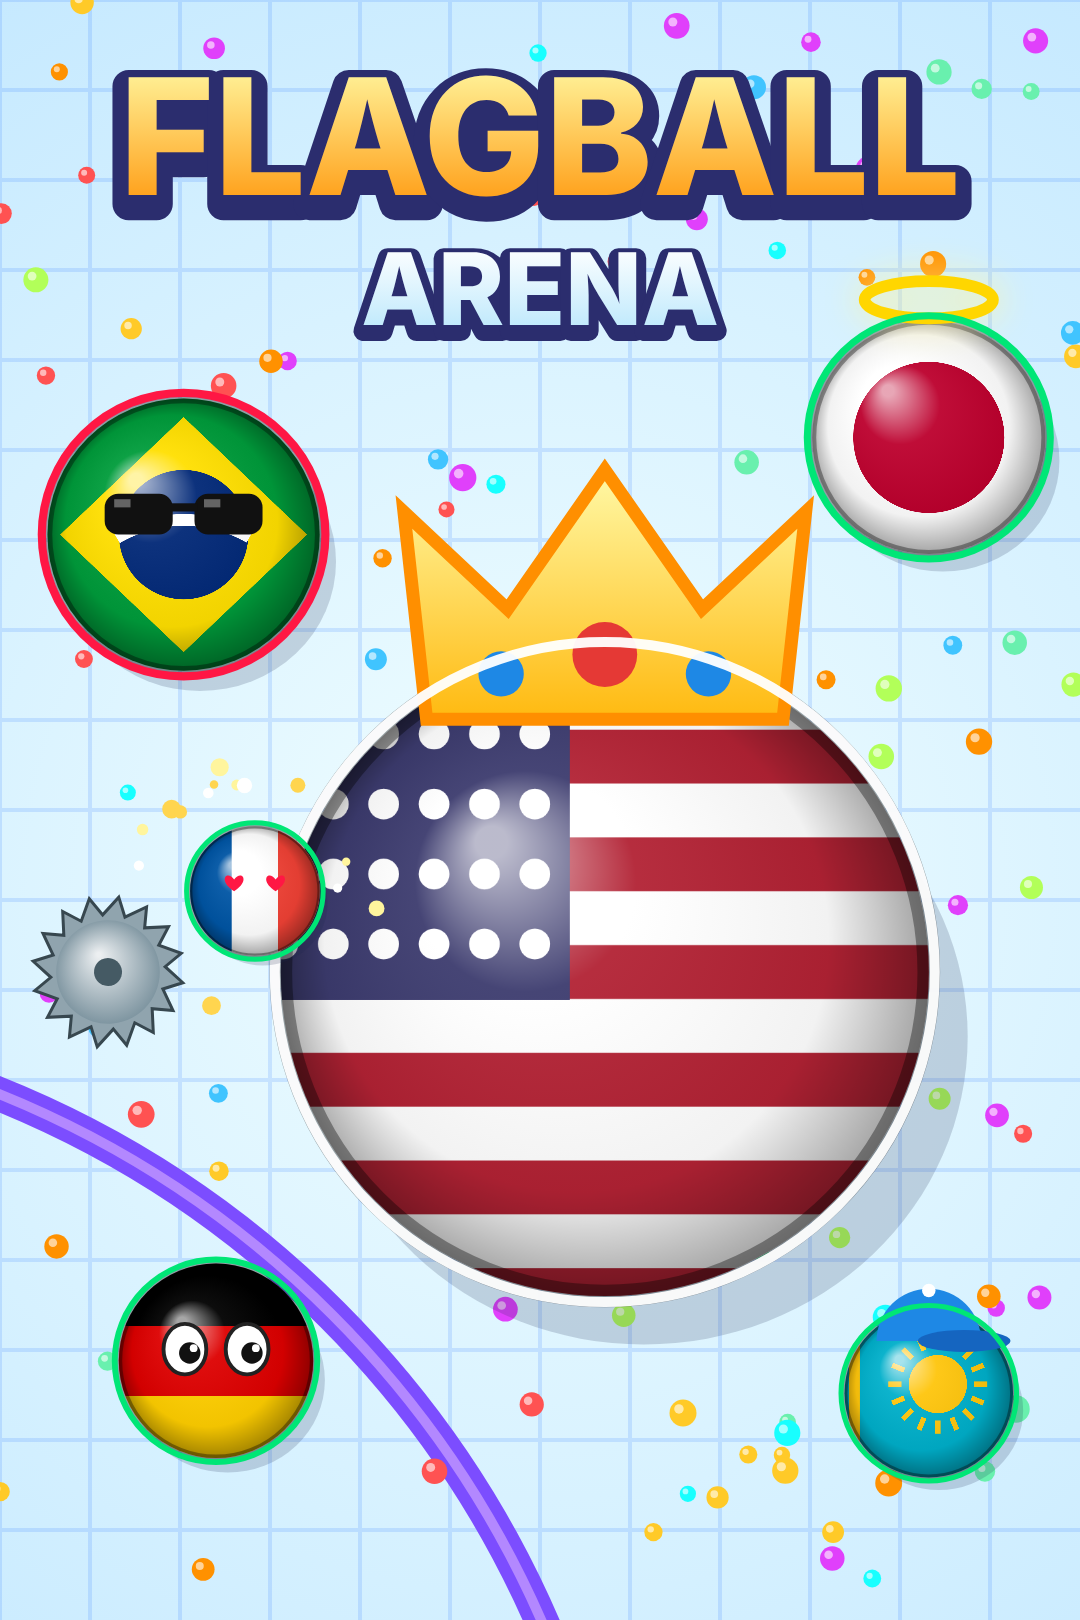
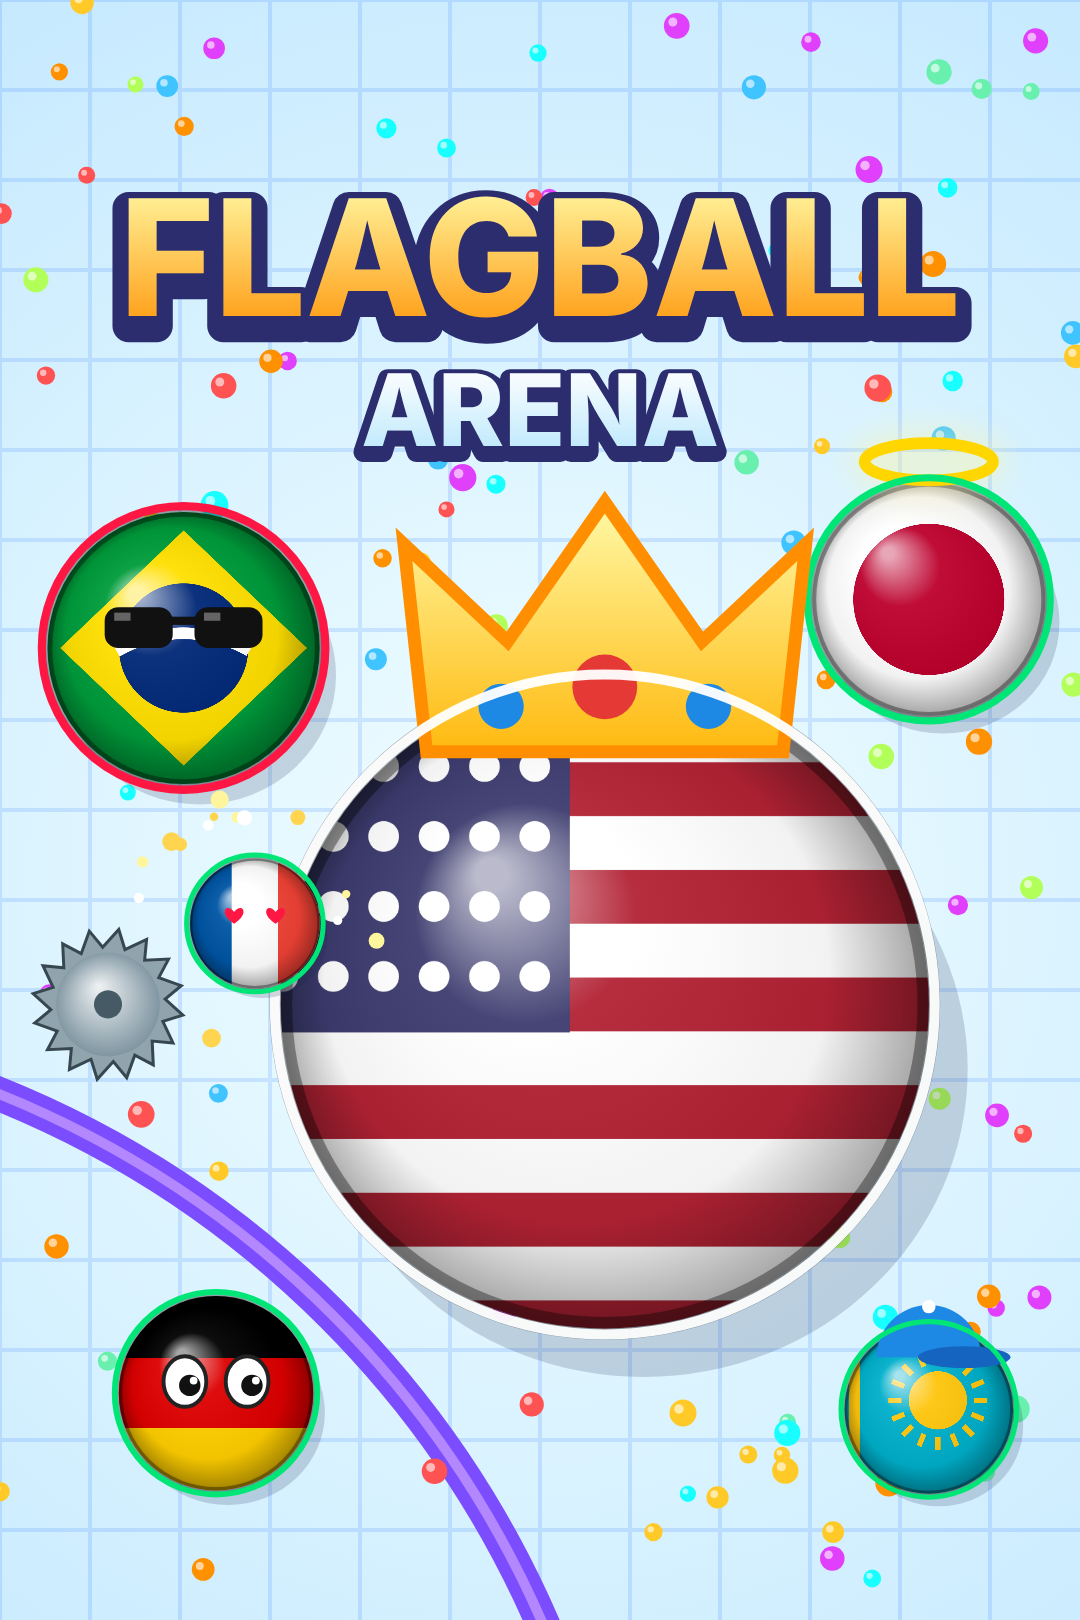
Обложки: надпись и шарики вне зоны ярлыка CrazyGames
Claude-Session: https://claude.ai/code/session_01WYD119ARkeVwakcTDPC31F

diff --git a/art/cover.html b/art/cover.html
@@ -29,24 +29,36 @@
     C.drawBall(x, y, r, flag, 0, ctx, null); A.drawAcc(ctx, acc, x, y, r);
     if (ring) { ctx.strokeStyle = ring; ctx.lineWidth = Math.max(5, r * 0.06); ctx.beginPath(); ctx.arc(x, y, r + ctx.lineWidth * 0.7, 0, 7); ctx.stroke(); }
   }
-  // композиция в долях кадра (подстраивается под 16:9, 2:3, 1:1)
-  const land = W / H > 1.2, port = W / H < 0.9;
-  const big = land ? 0.3 * H : port ? 0.3 * W : 0.235 * W;
-  const bx = land ? W * 0.62 : W * 0.56, by = land ? H * 0.6 : port ? H * 0.6 : H * 0.67;
-  saw(land ? W * 0.08 : W * 0.1, land ? H * 0.86 : H * 0.6, 70 * S);
-  ball(land ? W * 0.18 : W * 0.17, land ? H * 0.5 : port ? H * 0.33 : H * 0.36, big * 0.42, 'BR', 5, '#ff1744');
-  ball(land ? W * 0.9 : W * 0.86, land ? H * 0.28 : port ? H * 0.27 : H * 0.29, big * 0.36, 'JP', 8, '#00e676');
-  ball(land ? W * 0.36 : W * 0.2, land ? H * 0.8 : port ? H * 0.84 : H * 0.85, big * 0.3, 'DE', 1, '#00e676');
-  ball(land ? W * 0.88 : W * 0.86, land ? H * 0.82 : port ? H * 0.86 : H * 0.88, big * 0.26, 'KZ', 3, '#00e676');
+  // композиция в долях кадра (16:9, 2:3, 1:1). Верхний левый угол — «зона ярлыка» CrazyGames
+  // (16:9 — 40%×20%, 2:3 — 40%×10%, 1:1 — 35%×30%): там только фон, ни надписи, ни шариков.
+  const land = W / H > 1.2, port = W / H < 0.9, sq = !land && !port;
+  const P = land ? {
+    big: 0.3 * H, bx: 0.67 * W, by: 0.6 * H,
+    saw: [0.4, 0.88], BR: [0.49, 0.16, 0.42], JP: [0.91, 0.24, 0.36], DE: [0.12, 0.8, 0.3], KZ: [0.9, 0.85, 0.26],
+    title: [0.26, 0.42], fs: 0.09 * W
+  } : port ? {
+    big: 0.3 * W, bx: 0.56 * W, by: 0.62 * H,
+    saw: [0.1, 0.62], BR: [0.17, 0.4, 0.42], JP: [0.86, 0.37, 0.36], DE: [0.2, 0.86, 0.3], KZ: [0.86, 0.87, 0.26],
+    title: [0.5, 0.165], fs: 0.15 * W
+  } : {
+    big: 0.22 * W, bx: 0.56 * W, by: 0.42 * H,
+    saw: [0.9, 0.47], BR: [0.15, 0.5, 0.42], JP: [0.86, 0.17, 0.36], DE: [0.11, 0.9, 0.3], KZ: [0.9, 0.9, 0.26],
+    title: [0.5, 0.75], fs: 0.15 * W
+  };
+  const big = P.big, bx = P.bx, by = P.by;
+  saw(W * P.saw[0], H * P.saw[1], 70 * S);
+  ball(W * P.BR[0], H * P.BR[1], big * P.BR[2], 'BR', 5, '#ff1744');
+  ball(W * P.JP[0], H * P.JP[1], big * P.JP[2], 'JP', 8, '#00e676');
+  ball(W * P.DE[0], H * P.DE[1], big * P.DE[2], 'DE', 1, '#00e676');
+  ball(W * P.KZ[0], H * P.KZ[1], big * P.KZ[2], 'KZ', 3, '#00e676');
   // большой шарик-герой с короной, съедает маленький
   ball(bx, by, big, 'US', 11, null);
   ctx.strokeStyle = 'rgba(255,255,255,0.95)'; ctx.lineWidth = 10 * S; ctx.beginPath(); ctx.arc(bx, by, big + 6 * S, 0, 7); ctx.stroke();
-  const sx = bx - big * 1.08, sy = by - big * 0.25; ball(sx, sy, big * 0.2, 'FR', 7, '#00e676');
+  const sx = bx - big * 1.08, sy = by - big * (land ? 0.02 : 0.25); ball(sx, sy, big * 0.2, 'FR', 7, '#00e676');
   // искры
   for (let i = 0; i < 14; i++) { const a = rnd() * 6.28, d = big * 0.25 + rnd() * big * 0.15; ctx.fillStyle = ['#ffd54f', '#fff59d', '#ffffff'][i % 3]; ctx.beginPath(); ctx.arc(sx + Math.cos(a) * d, sy + Math.sin(a) * d, (4 + rnd() * 6) * S, 0, 7); ctx.fill(); }
   if (withTitle) {
-    const fs = land ? 180 * S : W * 0.15;
-    const tx = land ? W * 0.3 : W * 0.5, ty = land ? H * 0.17 : port ? H * 0.09 : H * 0.1;
+    const fs = P.fs, tx = W * P.title[0], ty = H * P.title[1];
     const word = (txt, x, y, f, g0, g1) => {
       ctx.font = C.font(f); ctx.textAlign = 'center'; ctx.textBaseline = 'middle'; ctx.lineJoin = 'round';
       ctx.lineWidth = f * 0.2; ctx.strokeStyle = '#2b2d6e'; ctx.strokeText(txt, x, y + f * 0.06);
@@ -58,6 +70,7 @@
     word('ARENA', tx, ty + fs * 0.92, fs * 0.62, '#ffffff', '#b3e5fc');
     ctx.restore();
   }
+  if (q.get('lz') === '1') { const z = land ? [0.4, 0.2] : port ? [0.4, 0.1] : [0.35, 0.3]; ctx.fillStyle = 'rgba(104,66,255,0.5)'; ctx.fillRect(0, 0, W * z[0], H * z[1]); }
   window.__done = true;
 })();
 </script>

diff --git a/tests/cover.render.js b/tests/cover.render.js
@@ -1,0 +1,22 @@
+// Обложки: скопировать art/cover.html, core.js и game.js из dist/flagball в COVR_DIR (по умолчанию /tmp/covr),
+// затем: node tests/cover.render.js <папка-вывода> [lz] (lz — показать зону ярлыка CrazyGames)
+const { chromium } = require('/opt/npm-tools/node_modules/playwright');
+const fs = require('fs');
+const OUT = process.argv[2] || '/tmp/covr/out/';
+const LZ = process.argv[3] === 'lz';
+fs.mkdirSync(OUT, { recursive: true });
+(async () => {
+  const b = await chromium.launch({ args: ['--allow-file-access-from-files'] });
+  for (const [w, h, name] of [[1920, 1080, 'cover_1920x1080.png'], [800, 1200, 'cover_800x1200.png'], [800, 800, 'cover_800x800.png'], [1080, 1620, 'cover_v_1080x1620.png']]) {
+    const p = await b.newPage({ viewport: { width: w, height: h } });
+    const errs = []; p.on('pageerror', e => errs.push(e.message));
+    await p.goto(`file://${process.env.COVR_DIR || '/tmp/covr'}/cover.html?w=${w}&h=${h}${LZ ? '&lz=1' : ''}`);
+    await p.waitForFunction(() => window.__done, null, { timeout: 15000 });
+    await p.waitForTimeout(300);
+    const data = await p.evaluate(() => document.getElementById('out').toDataURL('image/png'));
+    fs.writeFileSync(OUT + name, Buffer.from(data.split(',')[1], 'base64'));
+    console.log(name, errs.join(';') || 'ok');
+    await p.close();
+  }
+  await b.close();
+})();
